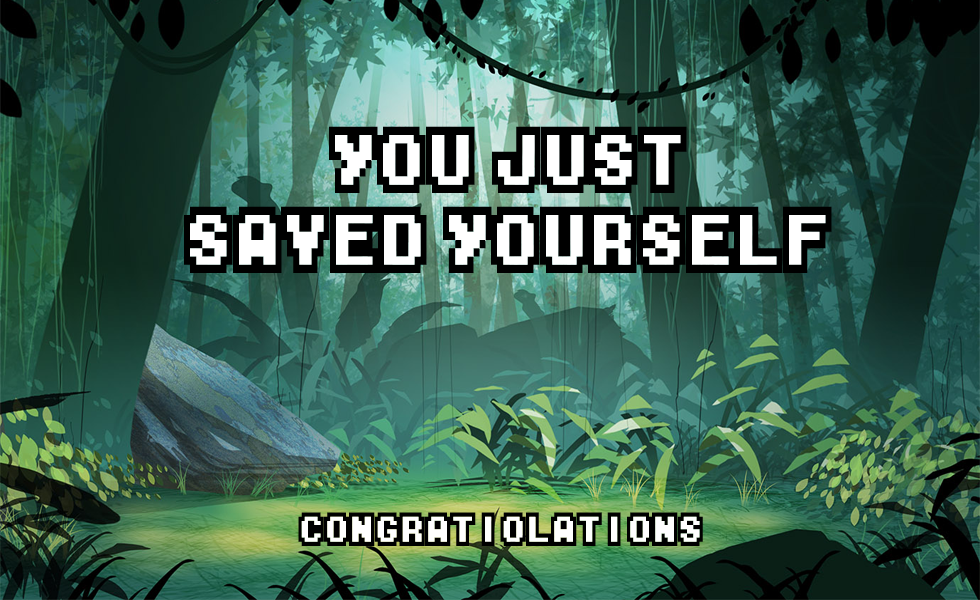
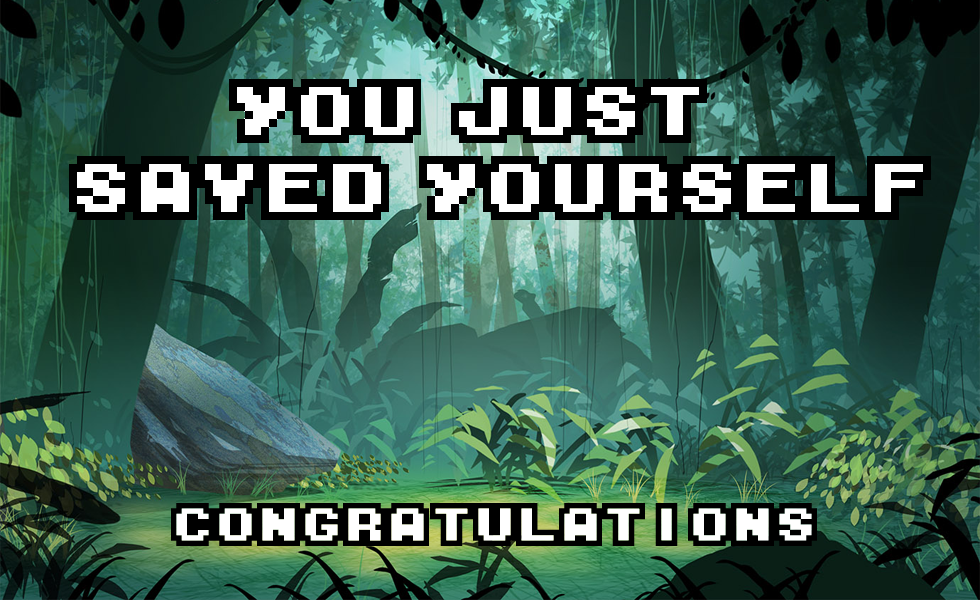
Animações ataques especiais

Changed region(s): [[0.0612, 0.12, 0.949, 0.48], [0.1531, 0.84, 0.8571, 0.93]]

diff --git a/parser.c b/parser.c
@@ -113,10 +113,9 @@ ESTADO inicializar(int nivel, int px, int py, int score, int vida, int mana, int
 }
 
 
-void print_move(ESTADO e, int difx, int dify, char *nomef){
+void print_move(ESTADO e, int difx, int dify, char *nomef, int acao){
 	int px = e.jog.x + difx;
 	int py = e.jog.y + dify;
-	int ação;
 
 
 	if (px==e.door.x && py==e.door.y){
@@ -527,8 +526,19 @@ void espada_giratoria(char *nomef){
 }
 
 
-void print_espadaGiratoria_animation(){
-	printf("<animateTransform xlink:href=#jog attributeName='transform' begin='0s' dur='3s' type='rotate' to='360 0 0' repeatCount='0' fill='freeze'/> \n");
+void print_espadaGiratoria_animation(int x, int y){
+	if(x==10){
+		printf("<image id=espada x=%d y=%d xlink:href=\"%s\"/>\n", (x-1)*60, y*70+35, ESPADA_GIR2);
+		printf("<animate xlink:href=#espada attributeName='opacity' to='0' dur='1s' begin='0s' fill='freeze' /> \n");
+	}
+	else if (x%2==0){
+		printf("<image id=espada x=%d y=%d xlink:href=\"%s\"/>\n", (x-1)*60, y*70-30, ESPADA_GIR);
+		printf("<animate xlink:href=#espada attributeName='opacity' to='0' dur='1s' begin='0s' fill='freeze' /> \n");
+	}
+	else{
+		printf("<image id=espada x=%d y=%d xlink:href=\"%s\"/>\n", (x-1)*60, y*70-65, ESPADA_GIR);
+		printf("<animate xlink:href=#espada attributeName='opacity' to='0' dur='1s' begin='0s' fill='freeze' /> \n");
+	}
 }
 
 
@@ -539,6 +549,11 @@ void dormir(char *nomef){
 			printf("<image x=753 y=512 xlink:href=\"%s\"/>\n", SQUARE_LINK);
 	printf("</a>\n");
 	printf("<text x=754 y=550 font-family=Verdana font-size=9 fill=white> %d </text> \n", 0);
+}
+
+void print_dormir_animation(){
+	printf("<animate attributeName='opacity' to='0' dur='1s' begin='0s' fill='freeze' /> \n");
+	printf("<animate attributeName='opacity' to='1' dur='1s' begin='1s' fill='freeze' /> \n");
 }
 
 
@@ -566,20 +581,20 @@ void print_imageID(int px, int py, char *imagem, int jogador){
 void print_player(ESTADO e, char *nomef){
 	print_imageID(e.jog.x, e.jog.y, PLAYER,-1);
 	if(e.jog.x%2==0){
-		print_move(e, +1, +0, nomef);
-		print_move(e, +0, +1, nomef);
-		print_move(e, +0, -1, nomef);
-		print_move(e, -1, +0, nomef);
-		print_move(e, +1, +1, nomef);
-		print_move(e, -1, +1, nomef);
+		print_move(e, +1, +0, nomef, 0);
+		print_move(e, +0, +1, nomef, 0);
+		print_move(e, +0, -1, nomef, 0);
+		print_move(e, -1, +0, nomef, 0);
+		print_move(e, +1, +1, nomef, 0);
+		print_move(e, -1, +1, nomef, 0);
 	}
 	else{
-		print_move(e, +1, +0, nomef);
-		print_move(e, +0, +1, nomef);
-		print_move(e, +0, -1, nomef);
-		print_move(e, -1, +0, nomef);
-		print_move(e, +1, -1, nomef);
-		print_move(e, -1, -1, nomef);
+		print_move(e, +1, +0, nomef, 0);
+		print_move(e, +0, +1, nomef, 0);
+		print_move(e, +0, -1, nomef, 0);
+		print_move(e, -1, +0, nomef, 0);
+		print_move(e, +1, -1, nomef, 0);
+		print_move(e, -1, -1, nomef, 0);
 	}
 } 
 
@@ -711,7 +726,7 @@ void print_dead_screen(char *nomef){
 	printf("<image x=0 y=0 width=980 height=600 xlink:href=\"%s\"/>\n", DEAD);
 
 	printf("<a xlink:href=\"http://127.0.0.1/cgi-bin/Rogue?%s,%d\">\n", nomef, 44);
-		printf("<image x=830 y=535 xlink:href=\"%s\"/>\n", BACK_BUTTON); // mudar botao!!!!!!!!!!!!!!!!!!!!!!!!!!!!!!!
+		printf("<image x=830 y=535 xlink:href=\"%s\"/>\n", MENU_BUTTON2);
 	printf("</a>\n");
 }
 
@@ -905,7 +920,6 @@ ESTADO ler_estado(char *nomef){
 
 
 void print_noMana(){
-
 	printf("<image id=noMana x=788 y=107 xlink:href=\"%s\"/>\n", NO_MANA);
 	printf("<animate xlink:href=#noMana attributeName='opacity' to='0' dur='1.2s' begin='0s' fill='freeze' /> \n");	
 }
@@ -915,7 +929,7 @@ void print_end_game(int score, char *nomef){
 	printf("<text x=500 y=500 font-family=Verdana font-size=64 stroke= black fill=white> %d </text> \n",score);
 
 	printf("<a xlink:href=\"http://127.0.0.1/cgi-bin/Rogue?%s,%d\">\n", nomef, 44);
-		printf("<image x=830 y=535 xlink:href=\"%s\"/>\n", BACK_BUTTON); // mudar botao!!!!!!!!!!!!!!!!!!!!!!!!!!!!!!!
+		printf("<image x=830 y=535 xlink:href=\"%s\"/>\n", MENU_BUTTON1);
 	printf("</a>\n");
 }
 
@@ -1117,9 +1131,9 @@ ESTADO processar_acao(ESTADO e, int acao, char *nomef, int numI){
 			else e.jog.vida=10;
 			if(e.jog.mana<=8) e.jog.mana+=2;
 			else e.jog.mana=10;
+			e=enemyMove(e);
 		}
 	}
-	e.ind_inimigo=numI;
 	return e;
 }	
 
@@ -1209,7 +1223,12 @@ void parser(){
 		selectRange(e,nomef);
 		print_treasure(e);
 		print_door(e);
-		print_player(e, acao, nomef);
+		if (e.bolaFogo==2){
+			print_bolaFogo_animation(e.inimigo[i].x, e.inimigo[i].y);
+			e.bolaFogo=0;
+		}
+		if(acao==18) print_espadaGiratoria_animation(e.jog.x, e.jog.y);
+		print_player(e, nomef);
 		print_inventory(e, nomef);
 		opcaoVida(nomef);
 		print_enemy_vida(e);
@@ -1223,12 +1242,7 @@ void parser(){
 			print_noMana();
 			e.noMana=0;
 		}
-		if (e.bolaFogo==2){
-			print_bolaFogo_animation(e.inimigo[e.ind_inimigo].x, e.inimigo[e.ind_inimigo].y);
-			e.bolaFogo=0;
-		}
-		if(acao==18) print_espadaGiratoria_animation();
-
+		if(acao==45) print_dormir_animation();
 	}
 	else{
 		guardar_Score(nomef, e.score);

diff --git a/parser.h b/parser.h
@@ -53,7 +53,12 @@
 #define DEAD "http://127.0.0.1/imagens/dead_screen.png"
 #define NO_MANA "http://127.0.0.1/imagens/no_mana.png"
 #define END_SCREEN "http://127.0.0.1/imagens/end_screen.png"
-#define BOLA_FOGO "http://127.0.0.1/imagens/vida.png"
+#define BOLA_FOGO "http://127.0.0.1/imagens/bolaFogo.png"
+#define MENU_BUTTON1 "http://127.0.0.1/imagens/menu_button1.png"
+#define MENU_BUTTON2 "http://127.0.0.1/imagens/menu_button2.png"
+#define ESPADA_GIR "http://127.0.0.1/imagens/espada_giratoria.png"
+#define ESPADA_GIR2 "http://127.0.0.1/imagens/espada_giratoria2.png"
+
 
 
 
@@ -91,7 +96,7 @@ ESTADO inicializar(int nivel, int px, int py, int score, int vida, int mana, int
 	@param dify  Posição.
 	@param *nomef  Nome do Ficheiro.
 */
-void print_move(ESTADO e, int difx, int dify, char *nomef);
+void print_move(ESTADO e, int difx, int dify, char *nomef, int acao);
 
 /** \brief Função que move os inimigos.
 
@@ -459,6 +464,8 @@ void parser();
 void print_animation(int x,int y, int px, int id);
 int isWall (ESTADO e, int x, int y);
 void print_bolaFogo_animation(int x, int y);
+void print_dormir_animation(){
+
 
 
 #endif

diff --git a/estado.h b/estado.h
@@ -109,9 +109,6 @@ typedef struct estado {
 	char vidas;
 	/** Indicativo que o jogador se encontra sem mana */
 	char noMana;
-	/** Opção de mostrar a vida dos inimigos */
-	int ind_inimigo;
-
 
 } ESTADO;
 
